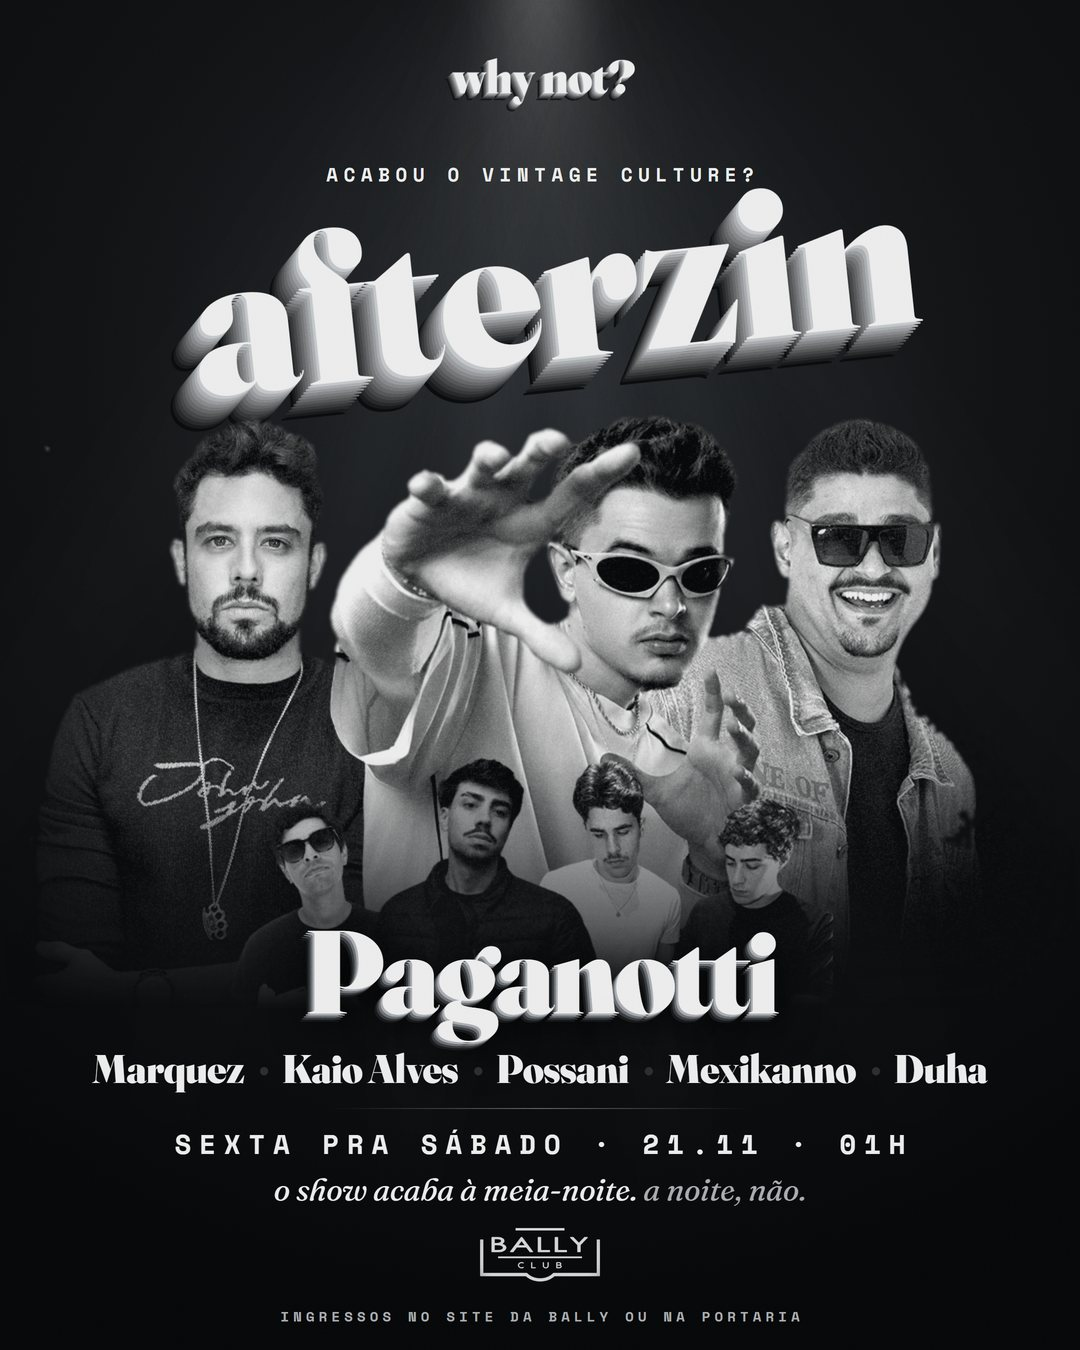
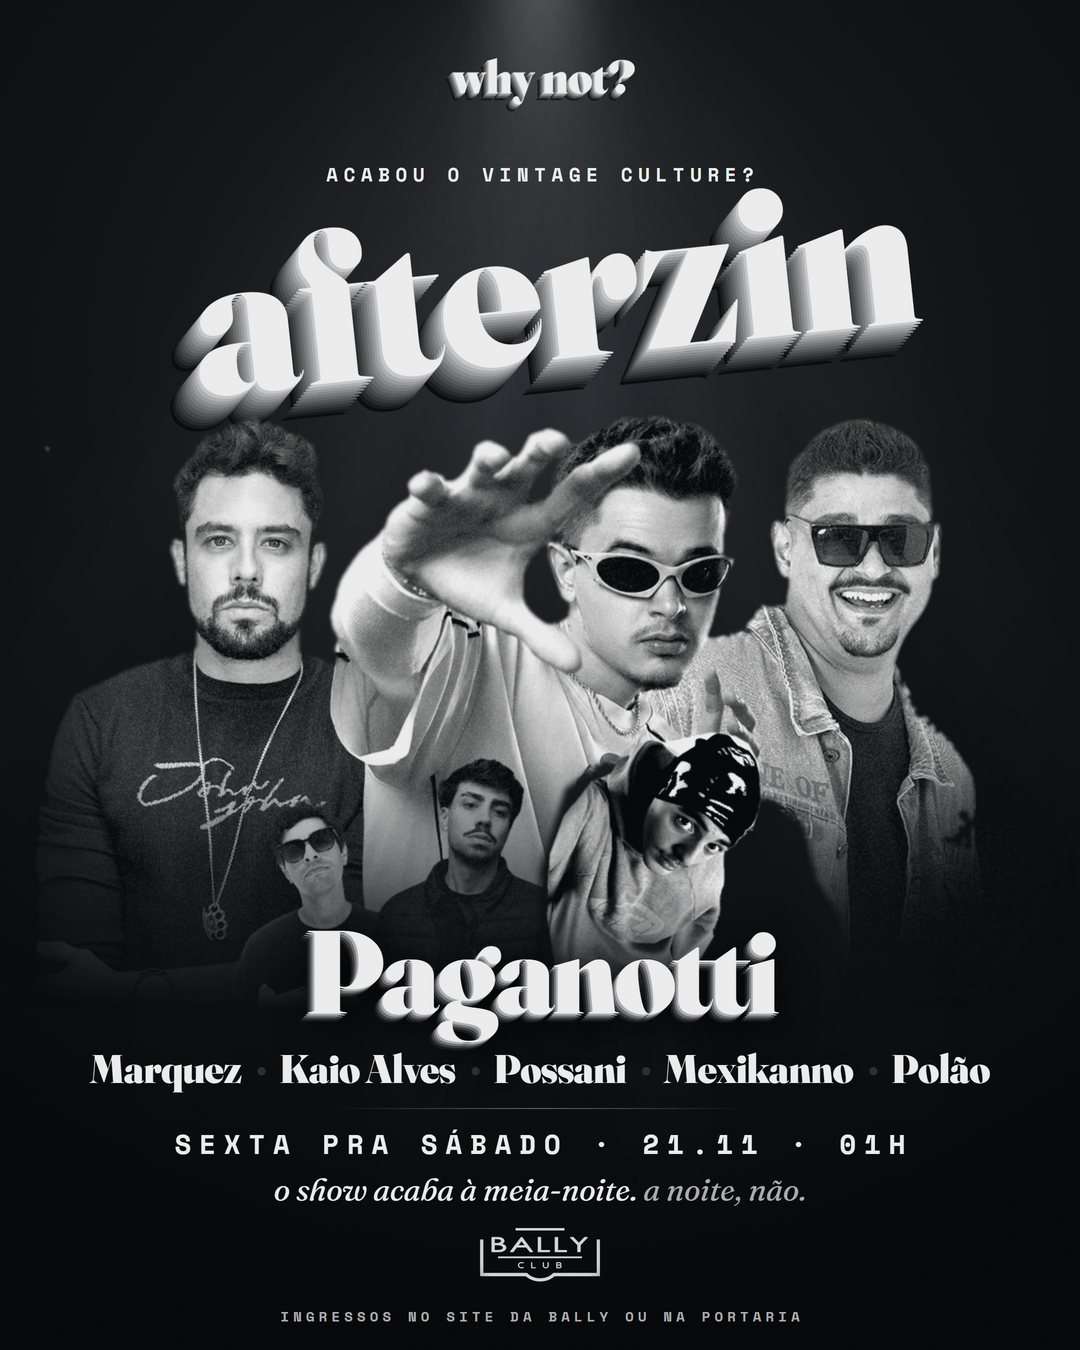
afterzin: Polão no lugar da dupla Duha (arte e site)

diff --git a/config.js b/config.js
@@ -24,7 +24,7 @@ window.WHYNOT = {
     quando: "sexta pra sábado · 21.11 · 01h · bally club",
     ingressos: "",                          // link de venda (site da Bally). Vazio = sem botão, só o aviso abaixo
     nota: "ingressos no site da bally ou na portaria.",
-    lineup: ["Paganotti", "Marquez", "Kaio Alves", "Possani", "Mexikanno", "Duha"],
+    lineup: ["Paganotti", "Marquez", "Kaio Alves", "Possani", "Mexikanno", "Polão"],
     poster: "assets/after/afterzin-2011.jpg",   // feito com identidade/ferramentas/afterzin_final.py
     // camarote no after: a mensagem do WhatsApp sai com o nome e a data do after
     camarote: { nome: "afterzin why not?", data: "20/11 (sexta pra sábado)" },

diff --git a/script.js b/script.js
@@ -74,7 +74,7 @@
     else ul.remove();
     if (a.poster) {
       const img = $("#af-poster");
-      img.src = a.poster;
+      img.src = `${a.poster}?v=2`;
       img.alt = `afterzin why not? na Bally Club, ${a.quando || ""}.${a.lineup?.length ? ` Line-up: ${a.lineup.join(", ")}.` : ""}`;
     } else $(".af__poster").remove();
 

diff --git a/index.html b/index.html
@@ -79,7 +79,7 @@
     <a data-href="instagram" data-bind="instagramHandle"></a>
   </footer>
 
-  <script src="config.js?v=55"></script>
-  <script src="script.js?v=54"></script>
+  <script src="config.js?v=56"></script>
+  <script src="script.js?v=56"></script>
 </body>
 </html>

diff --git a/camarotes.html b/camarotes.html
@@ -66,7 +66,7 @@
     <a data-href="instagram" data-bind="instagramHandle"></a>
   </footer>
 
-  <script src="config.js?v=55"></script>
+  <script src="config.js?v=56"></script>
   <script src="camarotes.js?v=53"></script>
 </body>
 </html>

diff --git a/identidade/ferramentas/afterzin_final.py b/identidade/ferramentas/afterzin_final.py
@@ -1,4 +1,4 @@
-"""afterzin why not? — arte FINAL com a line-up confirmada (Paganotti + Marquez, Kaio Alves, Possani, Mexikanno, Duha).
+"""afterzin why not? — arte FINAL com a line-up confirmada (Paganotti + Marquez, Kaio Alves, Possani, Mexikanno, Polão).
 Paleta Grafite. Fotos tiradas do cartaz da Bally (fundo verde removido por cor), em P&B.
 Gera feed 4:5 + story (2x) em afterzin-2011/final/ e o JPG do site em ../assets/after/.
 Renderiza com o Chrome/Edge em modo headless (não precisa de Playwright).
@@ -11,13 +11,14 @@ R = os.path.dirname(os.path.dirname(os.path.abspath(__file__)))
 A = R + '/afterzin-2011'; OUT = A + '/final'; os.makedirs(OUT, exist_ok=True)
 SITE = os.path.dirname(R) + '/assets/after'; os.makedirs(SITE, exist_ok=True)
 SRC = A + '/fotos/bally_2011_lineup_original.webp'
+POLAO = A + '/fotos/polao_original.webp'
 WN = R + '/assets/logo/grafite/logo-why-not-grafite.png'
 AZ = A + '/assets/wordmark-afterzin-grafite.png'
 BALLY = A + '/assets/bally_logo_grafite.png'
 BASE, DEST, MED, LINE = '#08090a', '#ececec', '#a9adb1', '#2c2f33'
 
 HEADLINER = 'Paganotti'
-LINEUP = ['Marquez', 'Kaio Alves', 'Possani', 'Mexikanno', 'Duha']
+LINEUP = ['Marquez', 'Kaio Alves', 'Possani', 'Mexikanno', 'Polão']
 QUANDO = 'SEXTA PRA SÁBADO · 21.11 · 01H'
 FRASE = "o show acaba à meia-noite. <span style='color:%s'>a noite, não.</span>" % MED
 INGRESSOS = 'INGRESSOS NO SITE DA BALLY OU NA PORTARIA'
@@ -42,6 +43,26 @@ def grupo():
     a = np.array(c)
     fg = (a != 128) & ~((H > 110) & (H < 140) & (S > 90) & (V > 90))   # buracos verdes entre dedos/cabelo
     m = Image.fromarray((fg * 255).astype('uint8')).filter(ImageFilter.MinFilter(3)).filter(ImageFilter.GaussianBlur(1.5))
+    # sai a dupla Duha (cartaz da Bally), entra o Polão no mesmo lugar
+    duo = Image.new('L', im.size, 0)
+    ImageDraw.Draw(duo).polygon([(535, 610), (540, 470), (565, 390), (605, 362), (645, 372), (655, 420), (700, 425), (720, 400),
+                                 (770, 400), (805, 430), (815, 480), (840, 520), (845, 610)], fill=255)
+    m = ImageChops.subtract(m, duo.filter(ImageFilter.GaussianBlur(3)))
+    pl = Image.open(POLAO).convert('RGB')
+    pm = Image.new('L', pl.size, 0)
+    ImageDraw.Draw(pm).polygon([(235, 330), (290, 305), (330, 312), (380, 300), (430, 290), (480, 298), (510, 315), (532, 360), (536, 440),
+                                (520, 505), (490, 535), (465, 548), (455, 562), (456, 620), (448, 690), (432, 745), (405, 790), (385, 830),
+                                (370, 923), (115, 923), (80, 820), (62, 700), (68, 560), (100, 475), (160, 400), (205, 380)], fill=255)
+    # tira o halo da parede clara perto da borda do recorte
+    Hp, Sp, Vp = [np.array(c).astype(int) for c in pl.convert('HSV').split()]
+    borda = np.array(pm) > np.array(pm.filter(ImageFilter.MinFilter(21)))
+    parede = borda & (Vp > 185) & (Sp < 45)
+    pm = Image.fromarray(np.where(parede, 0, np.array(pm)).astype('uint8')).filter(ImageFilter.GaussianBlur(1.6))
+    k = 0.45; x0, y0 = round(690 - 380 * k), round(335 - 290 * k)
+    pl = pl.resize((round(pl.width * k), round(pl.height * k)), Image.LANCZOS); pm = pm.resize(pl.size, Image.LANCZOS)
+    pl = ImageEnhance.Contrast(ImageEnhance.Brightness(pl).enhance(1.18)).enhance(1.3)   # aproxima do contraste das outras fotos
+    im.paste(pl, (x0, y0), pm)
+    lay = Image.new('L', im.size, 0); lay.paste(pm, (x0, y0))
     # P&B grafite
     g = ImageOps.autocontrast(ImageOps.grayscale(im), cutoff=1); g = ImageEnhance.Contrast(g).enhance(1.15)
     lo, hi = (8, 9, 10), (236, 236, 236)
@@ -50,7 +71,11 @@ def grupo():
     fb = Image.linear_gradient('L').resize((W, Hh)).point(lambda v: 255 if v < 150 else max(0, 255 - (v - 150) * 2.4))
     side = Image.linear_gradient('L').rotate(90, expand=True).resize((W, Hh))
     side = ImageChops.multiply(side.point(lambda v: min(255, v * 9)), ImageOps.mirror(side).point(lambda v: min(255, v * 9)))
-    rgb.putalpha(ImageChops.multiply(ImageChops.multiply(m, fb), side))
+    a = ImageChops.multiply(ImageChops.multiply(m, fb), side)
+    # o Polão some mais embaixo que o resto, pra o rosto não ficar apagado
+    fp = Image.linear_gradient('L').resize((W, Hh)).point(lambda v: 255 if v < 205 else max(0, 255 - (v - 205) * 5))
+    a = ImageChops.lighter(a, ImageChops.multiply(lay, fp))
+    rgb.putalpha(a)
     buf = io.BytesIO(); rgb.save(buf, 'PNG'); return base64.b64encode(buf.getvalue()).decode(), rgb.size
 
 FOTO, (FW, FH) = grupo()
